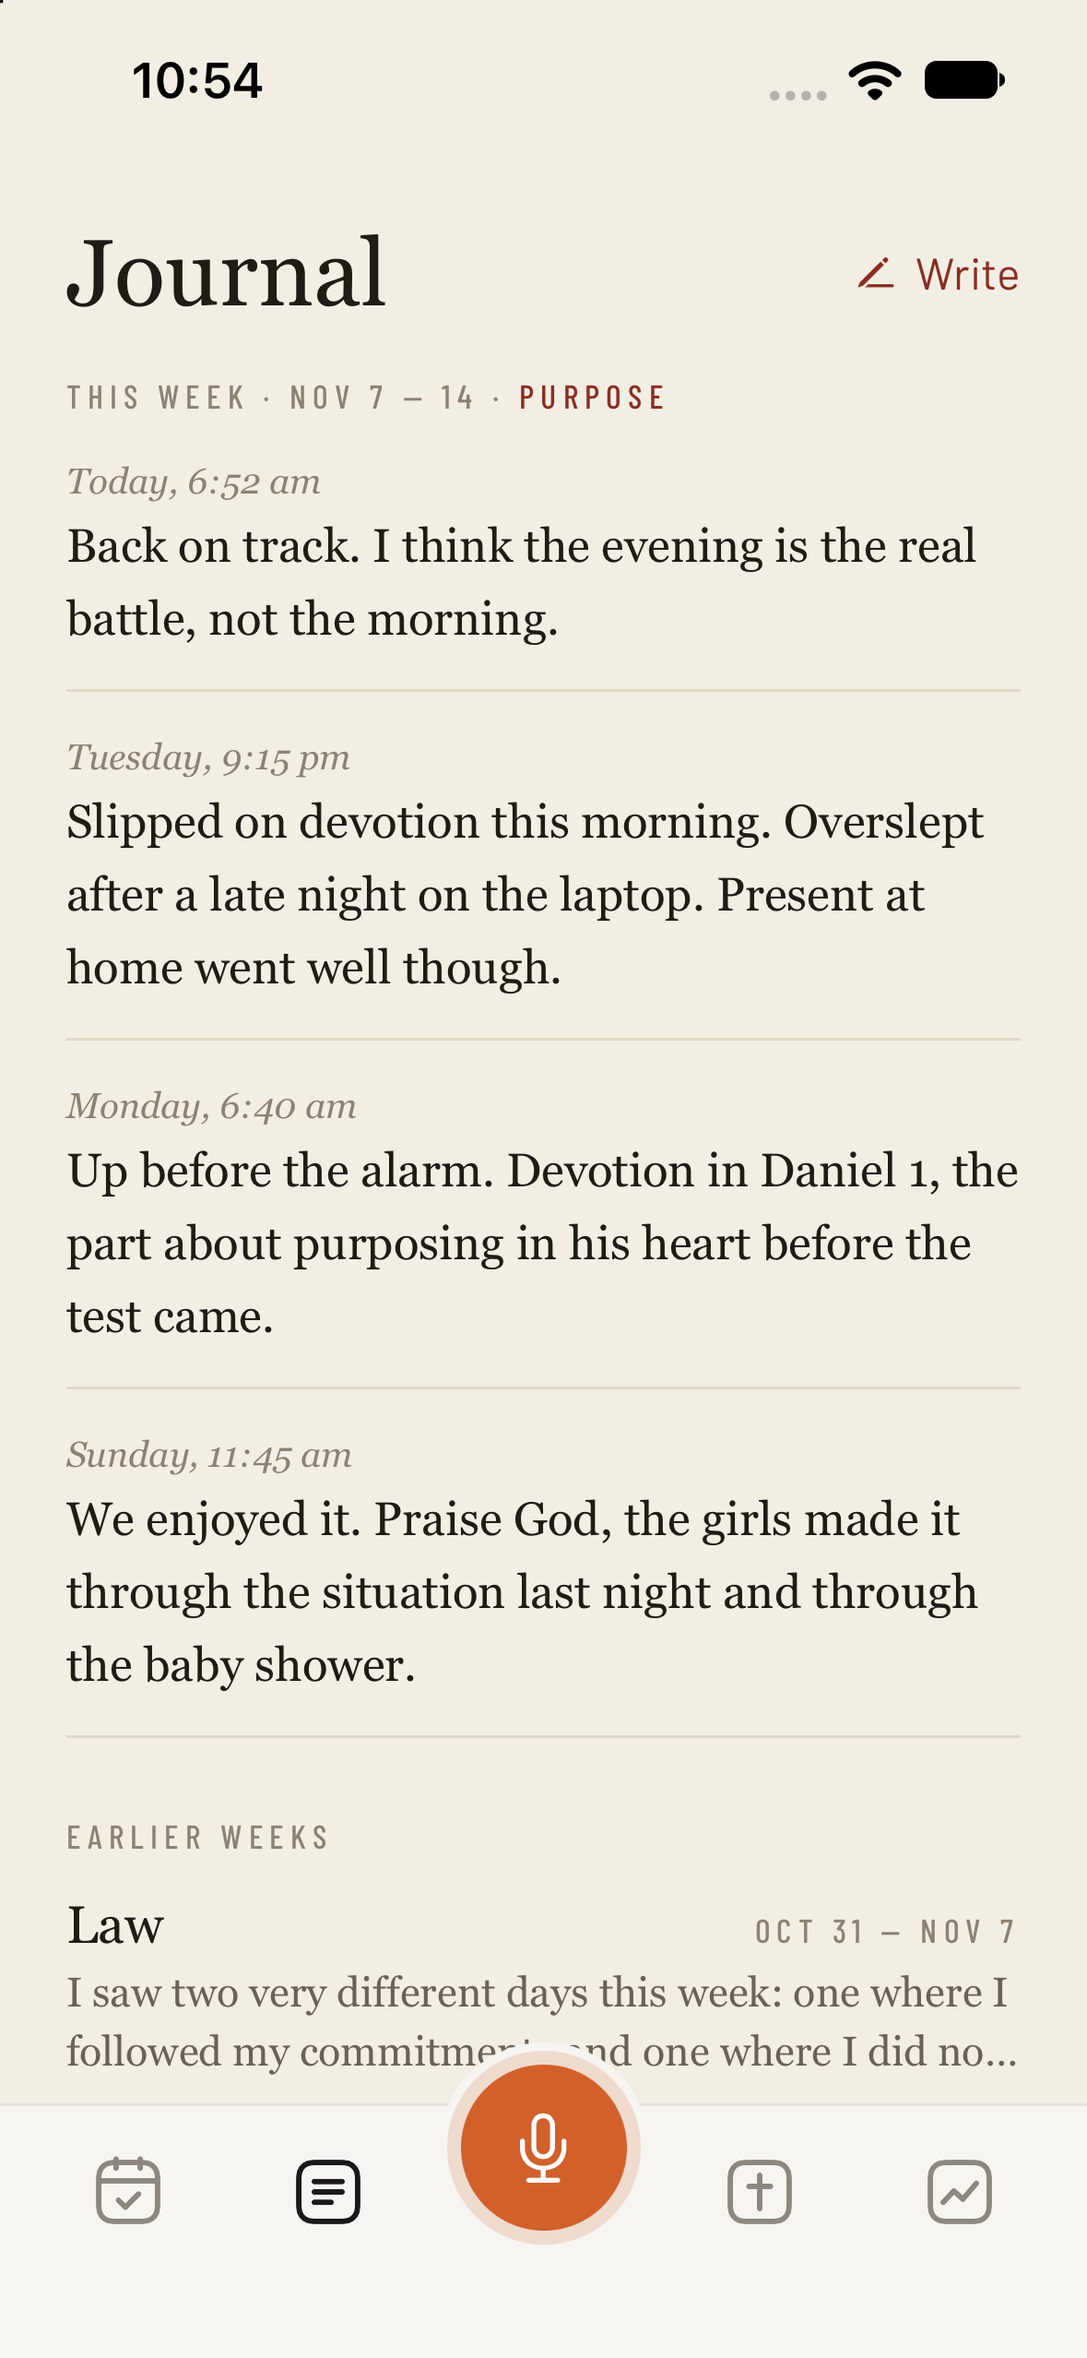
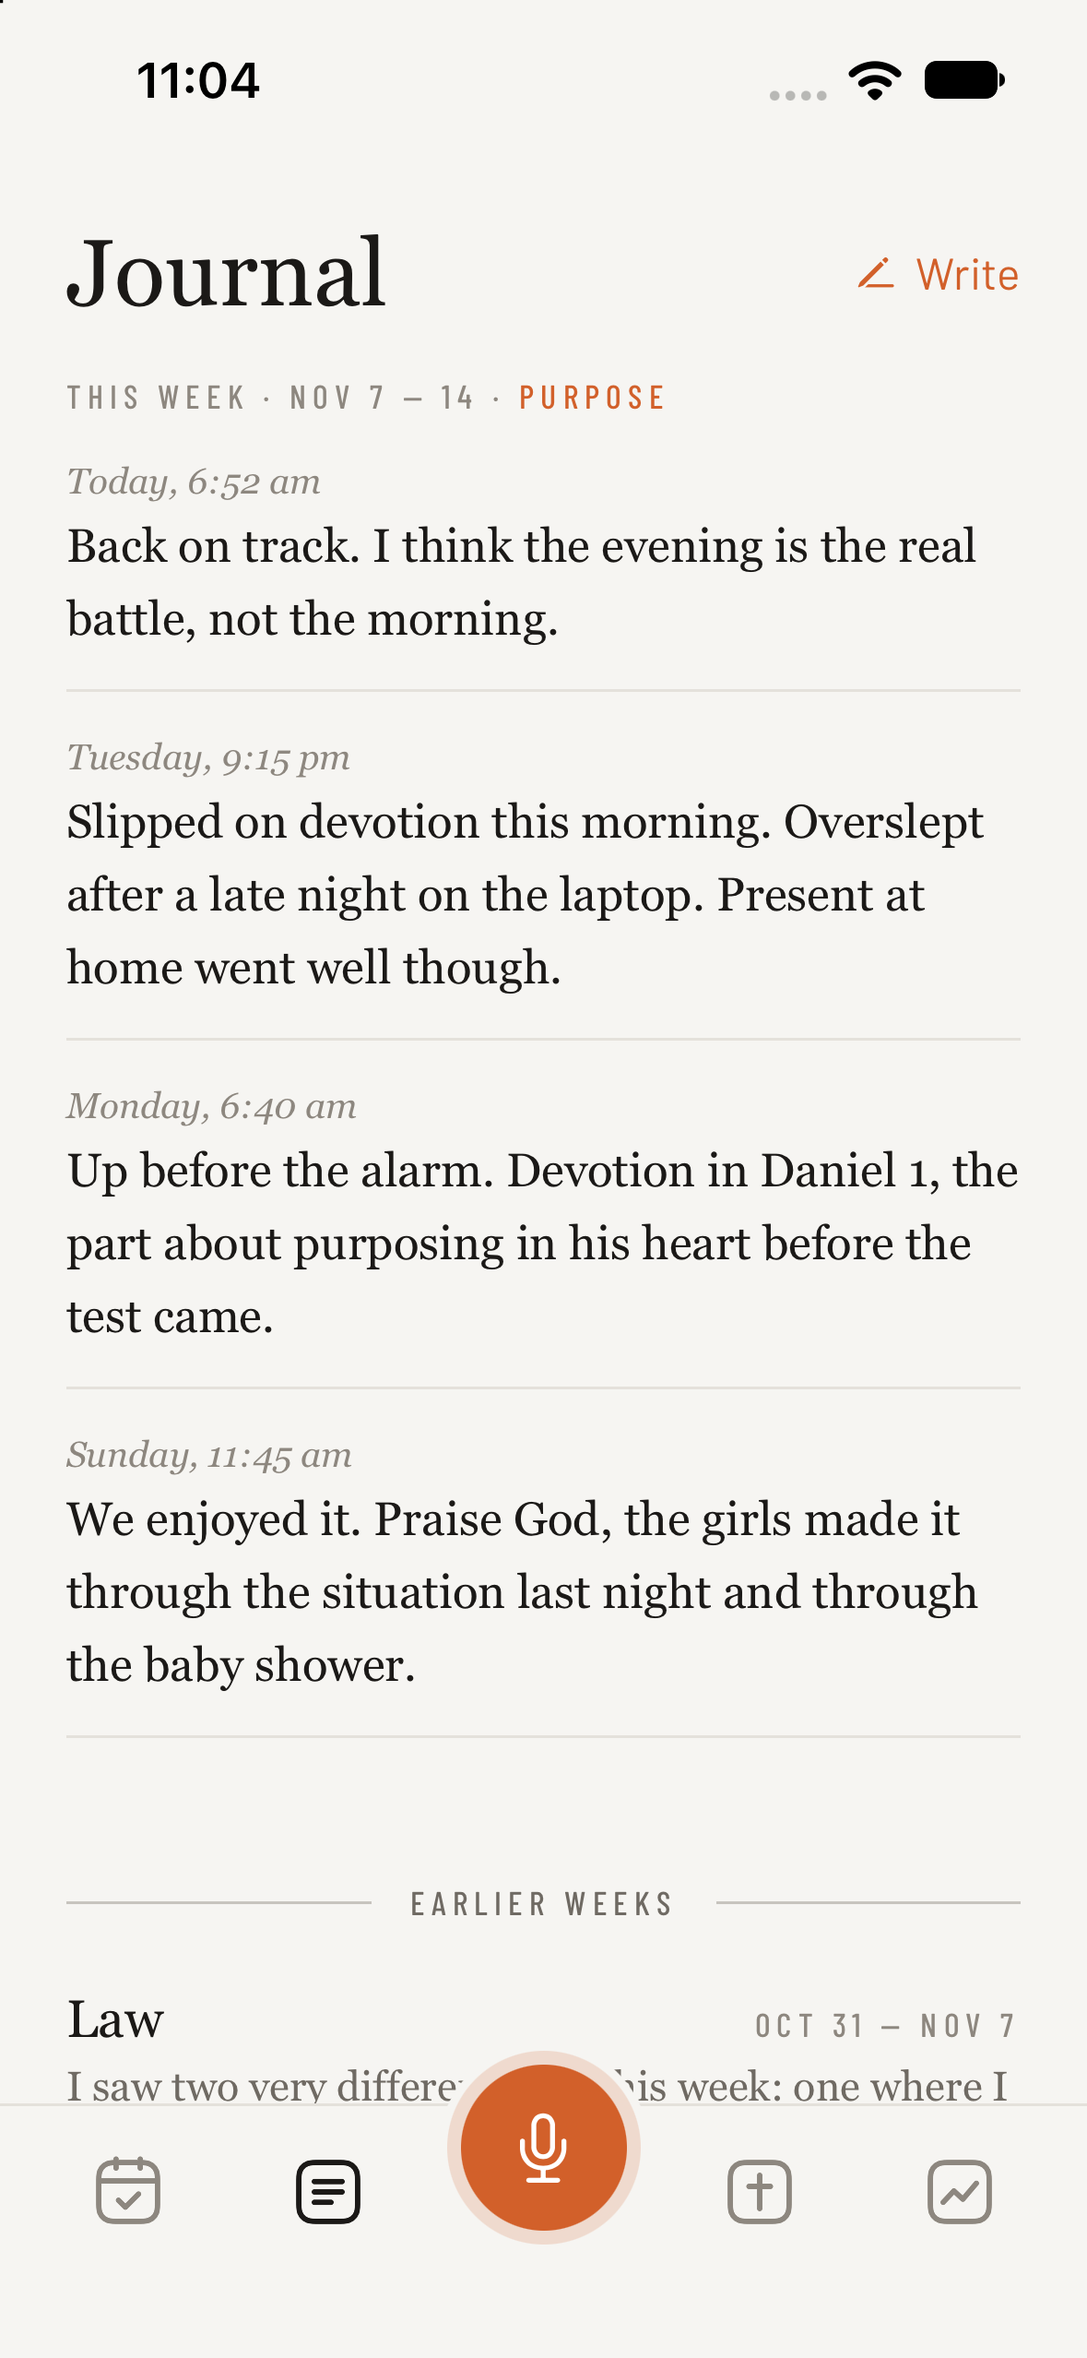
iOS: journal tones on write/edit only, 'Earlier weeks' divider, habit half sheet, TestFlight script

diff --git a/ios/WeeklyDirection/ReflectView.swift b/ios/WeeklyDirection/ReflectView.swift
@@ -29,7 +29,7 @@ struct WeekPage: View {
                         Button(selecting ? "Cancel" : "Select") { Haptic.tick(); selecting.toggle(); picked = [] }
                     }
                 }
-                .jbutton().foregroundStyle(Theme.jac)
+                .jbutton().foregroundStyle(Theme.ac)
                 .padding(.horizontal, 22).frame(height: 52)
                 ScrollView {
                     if let w = store.week(weekId) {
@@ -50,7 +50,7 @@ struct WeekPage: View {
                 .padding(.horizontal, 24).padding(.bottom, 12)
             }
         }
-        .background(Theme.jbg.ignoresSafeArea())
+        .background(Theme.bg.ignoresSafeArea())
         .onAppear { if router.selectMode { selecting = true; router.selectMode = false; if store.isMock { picked = [1] } } }
         .alert("Delete \(picked.count) \(picked.count == 1 ? "entry" : "entries")? This can’t be undone.", isPresented: $confirmDelete) {
             Button("Delete", role: .destructive) {
@@ -70,19 +70,19 @@ struct WeekPage: View {
         let active = w.isActive
         let all = Journal.blocks(active ? w.liveRefl : (w.reflection.isEmpty ? w.liveRefl : w.reflection))
         let ents = all.filter { $0.q == nil }, qa = all.filter { $0.q != nil }
-        Eyebrow(text: Fmt.weekRange(w, store.settings), color: Theme.jmu2, size: 12)
-        Text(w.focus).font(Theme.jserif(34)).foregroundStyle(Theme.jtx).padding(.top, 6)
+        Eyebrow(text: Fmt.weekRange(w, store.settings), color: Theme.mu2, size: 12)
+        Text(w.focus).font(Theme.jserif(34)).foregroundStyle(Theme.tx).padding(.top, 6)
         if let s = w.summary {
             VStack(alignment: .leading, spacing: 6) {
-                Eyebrow(text: "AI summary", color: Theme.jmu2)
-                Text(s).font(Theme.jserif(18)).lineSpacing(6).foregroundStyle(Theme.jtx)
+                Eyebrow(text: "AI summary", color: Theme.mu2)
+                Text(s).font(Theme.jserif(18)).lineSpacing(6).foregroundStyle(Theme.tx)
             }
             .padding(.top, 16)
         }
         if w.verse != nil || w.verseRef != nil {
             VStack(alignment: .leading, spacing: 8) {
-                if let v = w.verse { Text(v).font(Theme.jitalic(16)).lineSpacing(5).foregroundStyle(Theme.jmu) }
-                if let r = w.verseRef { Eyebrow(text: r, color: Theme.jmu2) }
+                if let v = w.verse { Text(v).font(Theme.jitalic(16)).lineSpacing(5).foregroundStyle(Theme.mu) }
+                if let r = w.verseRef { Eyebrow(text: r, color: Theme.mu2) }
             }
             .padding(.top, 16)
         }
@@ -91,26 +91,26 @@ struct WeekPage: View {
             ForEach(g) { e in entry(e, active: active) }
         }
         if !qa.isEmpty {
-            Text("Saturday review").font(Theme.jserif(20)).foregroundStyle(Theme.jtx).padding(.top, 36).padding(.bottom, 8)
+            Text("Saturday review").font(Theme.jserif(20)).foregroundStyle(Theme.tx).padding(.top, 36).padding(.bottom, 8)
             ForEach(qa) { e in
                 VStack(alignment: .leading, spacing: 6) {
-                    Text(e.q ?? "").font(Theme.jitalic(17)).foregroundStyle(Theme.jmu)
-                    Text(e.x).font(Theme.jserif(18)).lineSpacing(6).foregroundStyle(Theme.jtx)
+                    Text(e.q ?? "").font(Theme.jitalic(17)).foregroundStyle(Theme.mu)
+                    Text(e.x).font(Theme.jserif(18)).lineSpacing(6).foregroundStyle(Theme.tx)
                 }
                 .padding(.top, 14)
             }
         }
         if ents.isEmpty && qa.isEmpty {
-            Text(active ? "Nothing yet this week." : "Nothing written this week.").font(Theme.jitalic(17)).foregroundStyle(Theme.jmu2).padding(.top, 30)
+            Text(active ? "Nothing yet this week." : "Nothing written this week.").font(Theme.jitalic(17)).foregroundStyle(Theme.mu2).padding(.top, 30)
         }
         HStack {
             Spacer()
             if active {
                 Button { router.cover = .write } label: {
-                    HStack(spacing: 7) { Image(systemName: "pencil.line").font(.system(size: 15)); Text("Write") }.foregroundStyle(Theme.jac)
+                    HStack(spacing: 7) { Image(systemName: "pencil.line").font(.system(size: 15)); Text("Write") }.foregroundStyle(Theme.ac)
                 }
             } else {
-                Button("Open week") { vision = true }.foregroundStyle(Theme.jmu)
+                Button("Open week") { vision = true }.foregroundStyle(Theme.mu)
             }
         }
         .font(Theme.ui(15)).buttonStyle(.plain).padding(.top, 34)
@@ -132,9 +132,9 @@ struct WeekPage: View {
         for i in 0..<7 { let x = s0.addingTimeInterval(Double(i) * 86400); dates[Fmt.dowl[Rules.weekday(x)]] = x }
         let today = active && d == Fmt.dowl[Rules.weekday(Now.date)]
         return HStack(alignment: .firstTextBaseline) {
-            Text(today ? "Today" : d ?? "Notes").font(Theme.jserif(20)).foregroundStyle(Theme.jtx)
+            Text(today ? "Today" : d ?? "Notes").font(Theme.jserif(20)).foregroundStyle(Theme.tx)
             Spacer()
-            if let d, let x = dates[d] { Eyebrow(text: (today ? d + " · " : "") + Fmt.date(x), color: Theme.jmu2, size: 12) }
+            if let d, let x = dates[d] { Eyebrow(text: (today ? d + " · " : "") + Fmt.date(x), color: Theme.mu2, size: 12) }
         }
         .padding(.top, 36)
     }
@@ -143,17 +143,17 @@ struct WeekPage: View {
         HStack(alignment: .top, spacing: 14) {
             if selecting {
                 ZStack {
-                    Circle().stroke(picked.contains(e.i) ? Theme.jac : Theme.jmu2, lineWidth: 1.5)
+                    Circle().stroke(picked.contains(e.i) ? Theme.ac : Theme.mu2, lineWidth: 1.5)
                     if picked.contains(e.i) {
-                        Circle().fill(Theme.jac)
+                        Circle().fill(Theme.ac)
                         Image(systemName: "checkmark").font(.system(size: 10, weight: .bold)).foregroundStyle(Theme.onAc)
                     }
                 }
                 .frame(width: 22, height: 22).padding(.top, 2)
             }
             VStack(alignment: .leading, spacing: 6) {
-                if let t = e.t { Text(t).font(Theme.jitalic(13)).foregroundStyle(Theme.jmu2) }
-                Text(e.x).font(Theme.jserif(18)).lineSpacing(8).foregroundStyle(Theme.jtx)
+                if let t = e.t { Text(t).font(Theme.jitalic(13)).foregroundStyle(Theme.mu2) }
+                Text(e.x).font(Theme.jserif(18)).lineSpacing(8).foregroundStyle(Theme.tx)
             }
         }
         .fullWidth()

diff --git a/ios/WeeklyDirection/JournalList.swift b/ios/WeeklyDirection/JournalList.swift
@@ -70,58 +70,66 @@ struct JournalList: View {
         ScrollView {
             VStack(alignment: .leading, spacing: 0) {
                 HStack {
-                    Text("Journal").font(Theme.jserif(34)).foregroundStyle(Theme.jtx)
+                    Text("Journal").font(Theme.jserif(34)).foregroundStyle(Theme.tx)
                     Spacer()
                     if store.activeWeek != nil {
                         Button { router.cover = .write } label: {
-                            HStack(spacing: 6) { Image(systemName: "pencil.line").font(.system(size: 14)); Text("Write").jbutton(15) }.foregroundStyle(Theme.jac)
+                            HStack(spacing: 6) { Image(systemName: "pencil.line").font(.system(size: 14)); Text("Write").jbutton(15) }.foregroundStyle(Theme.ac)
                         }
                         .buttonStyle(.plain)
                     }
                 }
                 RecorderStatus().padding(.top, 10)
                 if let w = store.activeWeek {
-                    (Text("This week · \(Fmt.weekRange(w, store.settings)) · ").foregroundColor(Theme.jmu2) + Text(w.focus).foregroundColor(Theme.jac))
+                    (Text("This week · \(Fmt.weekRange(w, store.settings)) · ").foregroundColor(Theme.mu2) + Text(w.focus).foregroundColor(Theme.ac))
                         .font(Theme.label(12)).tracking(2.4).textCase(.uppercase).padding(.top, 18)
                     let ents = Array(Journal.entries(w.liveRefl).reversed())
                     if ents.isEmpty {
-                        Text("Nothing yet this week.").font(Theme.jitalic(17)).foregroundStyle(Theme.jmu2).padding(.top, 14)
+                        Text("Nothing yet this week.").font(Theme.jitalic(17)).foregroundStyle(Theme.mu2).padding(.top, 14)
                     }
                     ForEach(ents, id: \.i) { e in
                         VStack(alignment: .leading, spacing: 6) {
                             if let d = e.d, let t = e.t {
-                                Text("\(d == Fmt.dowl[Rules.weekday(Now.date)] ? "Today" : d), \(t)").font(Theme.jitalic(13)).foregroundStyle(Theme.jmu2)
+                                Text("\(d == Fmt.dowl[Rules.weekday(Now.date)] ? "Today" : d), \(t)").font(Theme.jitalic(13)).foregroundStyle(Theme.mu2)
                             }
-                            Text(e.x).font(Theme.jserif(17)).lineSpacing(7).foregroundStyle(Theme.jtx)
+                            Text(e.x).font(Theme.jserif(17)).lineSpacing(7).foregroundStyle(Theme.tx)
                         }
                         .fullWidth().padding(.vertical, 16)
                         .contentShape(Rectangle())
                         .onTapGesture { router.cover = .weekPage(w.id) }
                         .onLongPressGesture(minimumDuration: 0.5) { Haptic.tick(); router.entryMenu = e.i }
-                        Rectangle().fill(Theme.jrule).frame(height: 1)
+                        Rectangle().fill(Theme.rule).frame(height: 1)
                     }
                 }
-                if !past.isEmpty { Eyebrow(text: "Earlier weeks", color: Theme.jmu2).padding(.top, 28) }
+                if !past.isEmpty {
+                    // a clear break between this week's page and the weeks before it
+                    HStack(spacing: 14) {
+                        Rectangle().fill(Theme.mu2.opacity(0.45)).frame(height: 1)
+                        Eyebrow(text: "Earlier weeks", color: Theme.mu).fixedSize()
+                        Rectangle().fill(Theme.mu2.opacity(0.45)).frame(height: 1)
+                    }
+                    .padding(.top, 52).padding(.bottom, 10)
+                }
                 ForEach(past) { w in
                     Button { router.cover = .weekPage(w.id) } label: {
                         VStack(alignment: .leading, spacing: 5) {
                             HStack(alignment: .firstTextBaseline) {
-                                Text(w.focus).font(Theme.jserif(19)).foregroundStyle(Theme.jtx)
+                                Text(w.focus).font(Theme.jserif(19)).foregroundStyle(Theme.tx)
                                 Spacer()
-                                Eyebrow(text: Fmt.weekRange(w, store.settings), color: Theme.jmu2)
+                                Eyebrow(text: Fmt.weekRange(w, store.settings), color: Theme.mu2)
                             }
                             let first = w.summary ?? Journal.blocks(w.reflection.isEmpty ? w.liveRefl : w.reflection).first?.x
-                            if let first { Text(first).font(Theme.jserif(15)).lineSpacing(4).foregroundStyle(Theme.jmu).lineLimit(2).multilineTextAlignment(.leading) }
+                            if let first { Text(first).font(Theme.jserif(15)).lineSpacing(4).foregroundStyle(Theme.mu).lineLimit(2).multilineTextAlignment(.leading) }
                         }
                         .fullWidth().padding(.vertical, 14).contentShape(Rectangle())
                     }
                     .buttonStyle(.plain)
-                    Rectangle().fill(Theme.jrule).frame(height: 1)
+                    Rectangle().fill(Theme.rule).frame(height: 1)
                 }
             }
             .padding(.horizontal, 24).padding(.top, 20).padding(.bottom, 56)
         }
         .scrollIndicators(.hidden)
-        .background(Theme.jbg)
+        .background(Theme.bg)
     }
 }

diff --git a/ios/WeeklyDirection/HabitSheet.swift b/ios/WeeklyDirection/HabitSheet.swift
@@ -32,7 +32,7 @@ struct HabitSheet: View {
                     TextEditor(text: $about)
                         .font(Theme.serif(18)).lineSpacing(6).foregroundStyle(Theme.tx)
                         .scrollContentBackground(.hidden)
-                        .frame(minHeight: 140)
+                        .frame(minHeight: 96)
                         .padding(.horizontal, -4).padding(.top, 6)
                         .overlay(alignment: .topLeading) {
                             if about.isEmpty {
@@ -46,7 +46,7 @@ struct HabitSheet: View {
                     }
                 }
                 .fullWidth()
-                .padding(.horizontal, 20).padding(.top, 34).padding(.bottom, 30)
+                .padding(.horizontal, 20).padding(.top, 28).padding(.bottom, 24)
                 .onAppear { if !loaded { about = c.about ?? ""; loaded = true } }
             }
         }

diff --git a/ios/WeeklyDirection/Theme.swift b/ios/WeeklyDirection/Theme.swift
@@ -11,8 +11,8 @@ enum Theme {
     /// (Nov 9 2026: "keep original"). 1 = square, outlined shapes; 2 = the same plus condensed caps titles.
     static let style: Int = Mock.enabled ? UserDefaults.standard.integer(forKey: "MockStyle") : 0
     /// The journal's own page (Eddie, Nov 9 2026): a warm brown-black page in dark mode, the web app's cream paper in
-    /// light mode, set in Georgia with plain-word buttons and italic stamps. Used by the journal list, the week page
-    /// and the editor only.
+    /// light mode. Colours: the write / edit screen only (Eddie: the list and the week page keep the app's default
+    /// colours). The Georgia text, plain-word buttons and italic stamps are shared by the list, week page and editor.
     static let jbg = dyn(0x17130F, 0xF3EEE4)
     static let jtx = dyn(0xEFE6D8, 0x1F1B16)
     static let jmu = dyn(0xA99D8D, 0x6B6257)

diff --git a/ios/WeeklyDirection/WeeklyDirectionApp.swift b/ios/WeeklyDirection/WeeklyDirectionApp.swift
@@ -109,6 +109,8 @@ struct MainTabs: View {
         }
         .sheet(item: $router.sheet) { s in
             sheet(s).environmentObject(store).environmentObject(router)
+                // a habit opens as a half sheet over the week; pull it up for more room
+                .presentationDetents({ if case .habit = s { return [.medium, .large] } else { return [.large] } }())
                 .presentationDragIndicator(.visible)
                 .presentationCornerRadius(28)
                 .presentationBackground(Theme.bg)

diff --git a/ios/docs/PROGRESS.md b/ios/docs/PROGRESS.md
@@ -1,6 +1,6 @@
 # Weekly Direction iOS — progress log
 
-**Current: dictation made instant (built, untested on device); journal page built (warm in dark, paper in light); waiting for Eddie's call on the calmer stats and the prayer icon, findings in docs/design/findings/2026-11-09-stats-journal-prayer.** Eddie has the app running on his phone (real data reads, Nov 9). Nothing pushed (no git credentials in the Claude shell).
+**Current: calmer stats, journal divider, half-sheet habit panel BUILT; TestFlight script added (`scripts/testflight.sh`), upload not yet run.** Eddie has the app on his phone (real data reads). Open: prayer icon pick, device check of dictation. Nothing pushed (no git credentials in the Claude shell).
 
 ## Polish pass (Nov 9, evening)
 - Habit names now match the web: Barlow Regular 16.5, no extra tracking (was Medium 18 + tracking); meta Barlow Condensed 13.
@@ -13,6 +13,10 @@
 - Not verified: recording from the centre mic on a device; the "Transcribing… / N waiting · Retry" line in its new places (This Week above the latest thought, top of Journal).
 - Dictation (Nov 9, late): the recording space is an overlay (0.16 s fade, orb grows from the tab mic), not a full-screen cover. Finishing closes it at once; transcription runs behind (`Recorder.sending`), the latest-thought strip shows the on-device words as "Just now · transcribing" until the real text lands, and a new recording can start meanwhile. Audio session and recorder set-up run off the main thread; live words start 0.35 s after the screen opens. Not verified on a device: any of it (sample data records nothing).
 - Journal page (Eddie, Nov 9: "paper for light mode, not dark"): the journal list, week page and editor use their own page: warm brown-black in dark mode, the web's cream paper in light mode, Georgia throughout, plain-word buttons, italic stamps (`Theme.j*`). Georgia in light mode too is Claude's call (the paper mockup he saw was Fraunces); one line to switch back.
+- Stats (Eddie approved the mockup, Nov 9): one headline, week grid, one quiet line for what slipped, habits as bars. A week in progress is never compared with a finished one; the all-time trend shows finished weeks only. Old six-box grid, daily trend and habit cards removed.
+- Journal colours (Eddie, Nov 9): warm / paper tones on the write and edit screen ONLY. The Journal list and week page use the app's default colours (they keep Georgia and plain-word buttons). A ruled "Earlier weeks" divider separates this week from prior weeks.
+- Habit tap opens a half sheet (medium detent, pull up for full).
+- TestFlight: `scripts/testflight.sh` (archive + local .ipa) and `scripts/testflight.sh upload`. Build number = build time. `ITSAppUsesNonExemptEncryption` = false. Upload needs an App Store Connect app record for com.redeemedtools.WeeklyDirection and is Eddie's call each time.
 - Previous state: run DAY-2026-11-09 DONE.
 
 ## Run DAY-2026-11-09 (see docs/runs/DAY-2026-11-09.md)

diff --git a/ios/CLAUDE.md b/ios/CLAUDE.md
@@ -32,6 +32,7 @@ xcodebuild -project WeeklyDirection.xcodeproj -scheme WeeklyDirection \
   -destination 'generic/platform=iOS' CODE_SIGNING_ALLOWED=NO build 2>&1 | grep -E "error:|warning:|BUILD"
 scripts/test.sh                      # XCTest (rules, write fields, journal, reminders) on the dedicated simulator
 scripts/shot.sh week stats close     # screenshots with sample data → docs/screenshots/latest/
+scripts/testflight.sh                # Release archive + local .ipa in build/; `scripts/testflight.sh upload` sends it to TestFlight (ask Eddie first)
 ```
 Simulator rule (Eddie, 2026-11-09): one simulator only ("Weekly Direction Tests", iPhone 14 Pro), booted only for tests and
 screenshots, launched with simctl (never Xcode Run, never the debugger); both scripts shut every simulator down when done.
